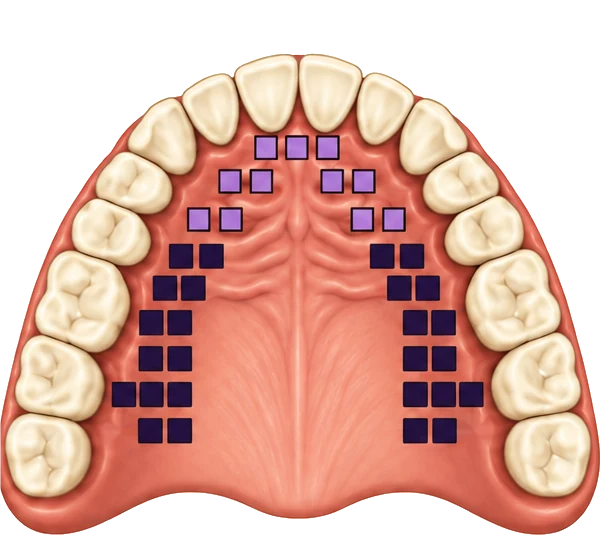
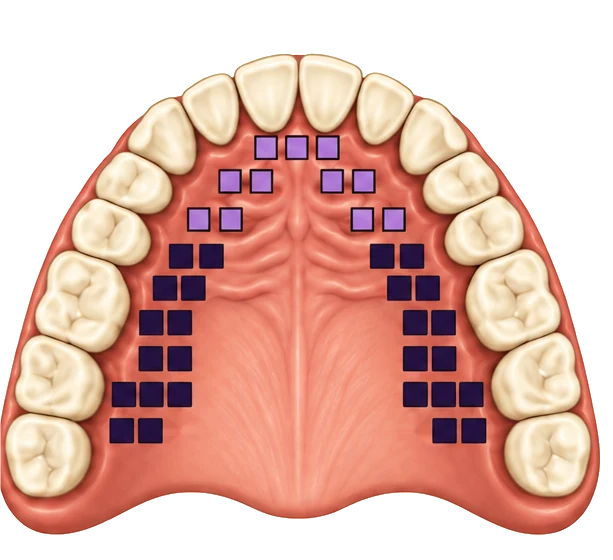
fix(android): keep palate squares next to the molars in dod guide

Changed region(s): [[0.155, 0.7286, 0.3409, 0.8196], [0.6509, 0.7286, 0.7129, 0.8196], [0.7439, 0.7286, 0.8059, 0.7893]]

diff --git a/scripts/cut-reading-images.py b/scripts/cut-reading-images.py
@@ -34,8 +34,8 @@ HARD = 30
 SOFT = 60
 MAX_WIDTH = 900
 # Стереть с рисунка (x0, y0, x1, y1 в пикселях результата, с обводкой, не задевая соседей) - решение пользователя
-# 2026-10-21: в нижнем ряду у коренных зубов по 2 квадрата с каждой стороны, крайние у зубов убраны.
-ERASE = {'dod-palate': [(106, 415, 135, 446), (459, 415, 489, 446)]}
+# 2026-10-21: в нижнем ряду по 2 квадрата с каждой стороны - у зубов; внутренние (ближе к середине нёба) убраны.
+ERASE = {'dod-palate': [(166, 415, 194, 446), (400, 415, 428, 446)]}
 
 
 def background_color(a):
